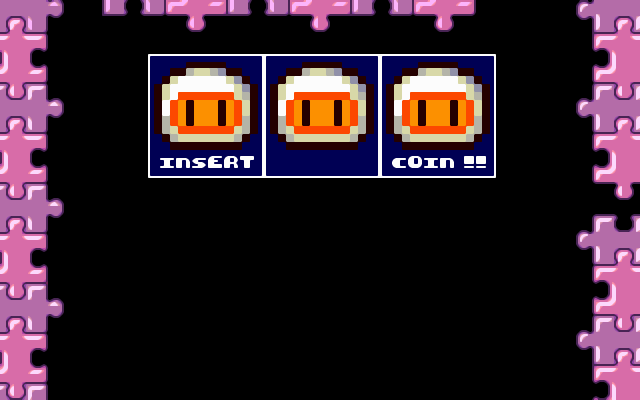
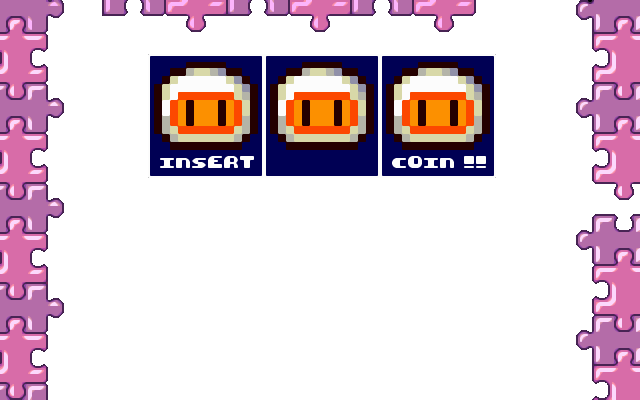
Add crayon overlay

diff --git a/UWP/Assets.cs b/UWP/Assets.cs
@@ -375,6 +375,30 @@ namespace MrBoom
                         {
                             loadImage(content.Load<Texture2D>("CRAYON"), 0, 0, 320, 200),
                         },
+                        Overlays = new Level.Overlay[]
+                        {
+                            new Level.Overlay()
+                            {
+                                Images = loadImageStripe(imgCrayon2, 0, 0, 50, 200),
+                                x = 0,
+                                y = 0,
+                                AnimationDelay = 1
+                            },
+                            new Level.Overlay()
+                            {
+                                Images = loadImageStripe(imgCrayon2, 320 - 50, 0, 50, 200),
+                                x = 320 - 50,
+                                y = 0,
+                                AnimationDelay = 1
+                            },
+                            new Level.Overlay()
+                            {
+                                Images = loadImageStripe(imgCrayon2, 0, 0, 320, 10),
+                                x = 0,
+                                y = 0,
+                                AnimationDelay = 1
+                            }
+                        },
                         Walls = loadImageStripe(imgPause, 0, 112, 16, 16, 8),
                         PermanentWalls = loadPermanentWall(fire, loadImage(imgPause, 256 + 16 * 3, 16 * 0, 16, 16)),
                     },
